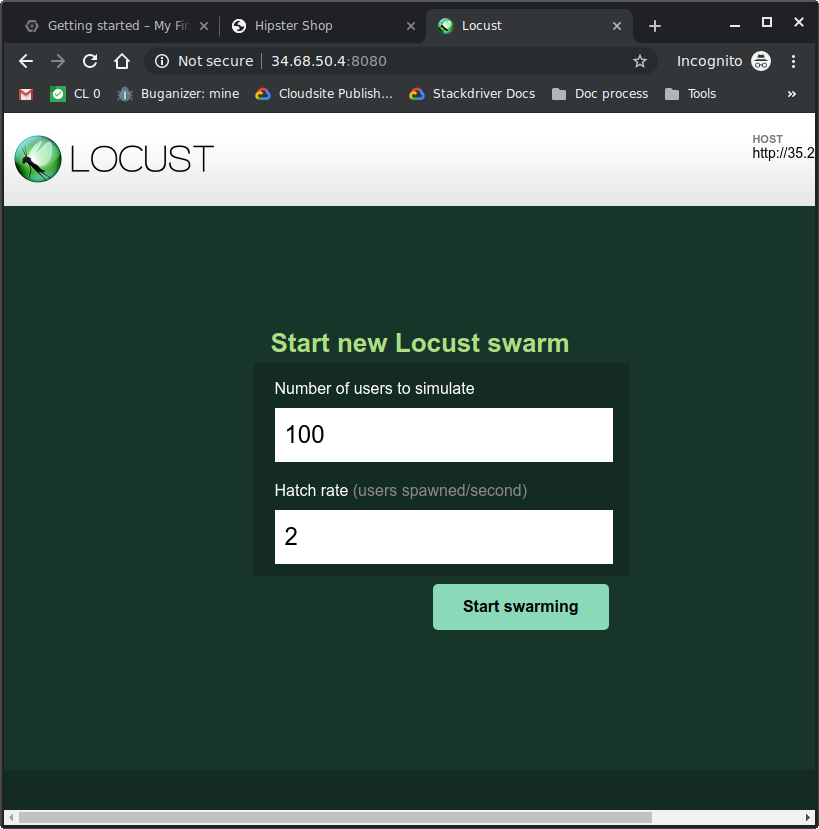
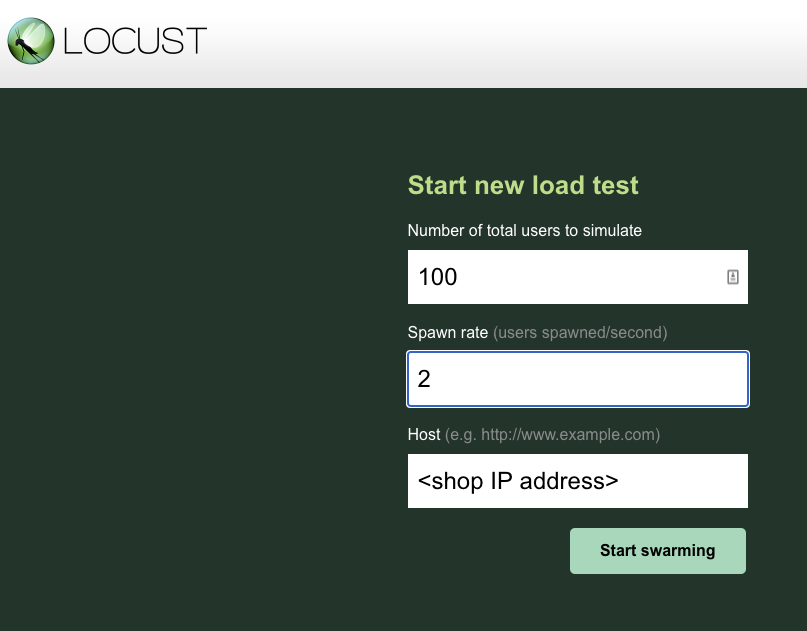
Updating Locust settings and screenshot for issue #503

diff --git a/docs/tutorial.md b/docs/tutorial.md
@@ -65,10 +65,11 @@ In a new browser tab, navigate to the Hipster Shop URL, where you can "purchase"
 
 ## Run the load generator
 
-In another browser tab, navigate to the load-generator URL, from which you can simulate users interacting with the application to generate traffic. For this application, values like 100 users with a "hatch rate" of 2 (spawn 2 users per second) are reasonable.
+In another browser tab, navigate to the load-generator URL, from which you can simulate users interacting with the application to generate traffic. For this application, values like 100 total users with a spawn rate of 2 users per second are reasonable. Fill in the **Host** field with the "Hipster shop web address" from the installation stage if it isn't prepopulated. Click the **Start swarming** button to begin generating traffic to the site.
 
-From here, you can explore how the application was deployed, and you can use the  
-navigation menu to bring up other GCP tools.
+![Locust example](https://github.com/GoogleCloudPlatform/cloud-ops-sandbox/raw/master/docs/images/user-guide/3-locust.png "Example of Locust configuration")
+
+From here, you can explore how the application was deployed, and you can use the navigation menu to bring up other GCP tools.
 
 ## Learn Cloud Operations 
 

diff --git a/docs/README.md b/docs/README.md
@@ -94,12 +94,11 @@ In a new browser tab, navigate to the Hipster Shop URL, where you can "purchase"
 
 ## Run the load generator
 
-In another browser tab, navigate to the load-generator URL, from which you can simulate users interacting with the application to generate traffic. For this application, values like 100 users with a "hatch rate" of 2 (spawn 2 users per second) are reasonable.
+In another browser tab, navigate to the load-generator URL, from which you can simulate users interacting with the application to generate traffic. For this application, values like 100 total users with a spawn rate of 2 users per second are reasonable. Fill in the **Host** field with the "Hipster shop web address" from the installation stage if it isn't prepopulated. Click the **Start swarming** button to begin generating traffic to the site.
 
-![image](./images/user-guide/3-locust.png)
+![Locust example](./images/user-guide/3-locust.png)
 
-From here, you can explore how the application was deployed, and you can use the  
-navigation menu to bring up other GCP tools.
+From here, you can explore how the application was deployed, and you can use the navigation menu to bring up other GCP tools.
 
 # Learn Ops Management
 
